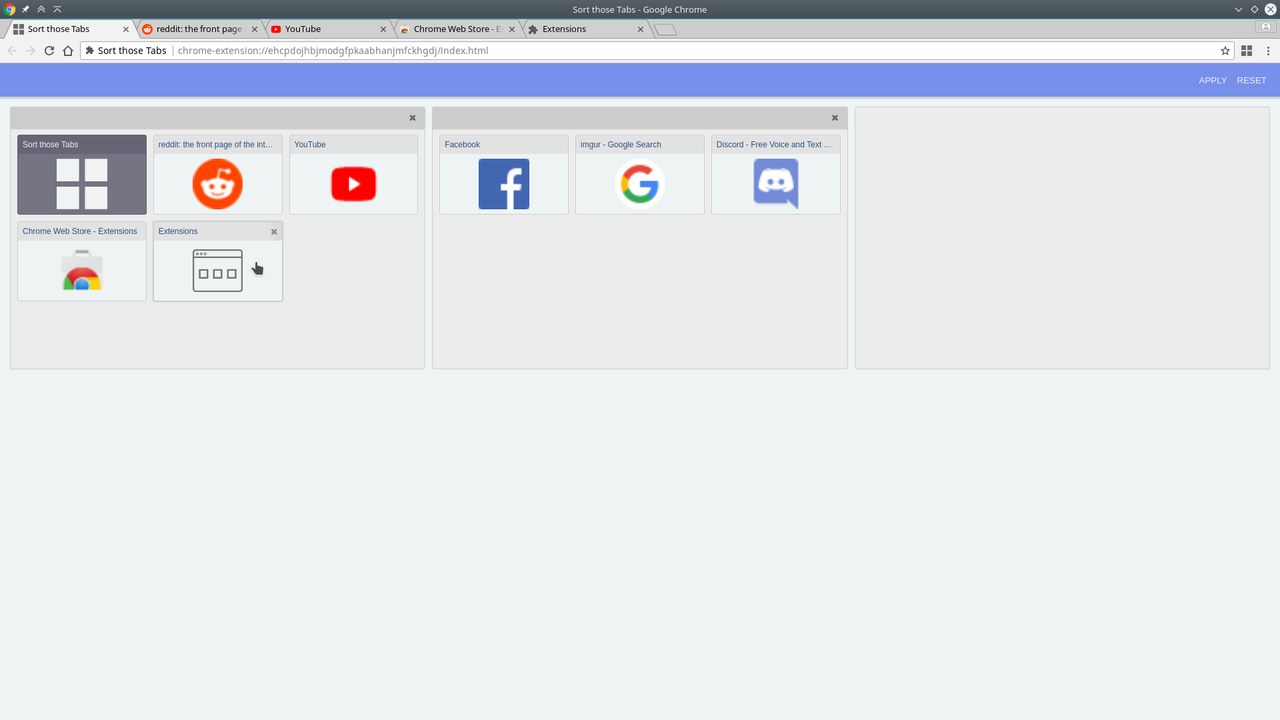
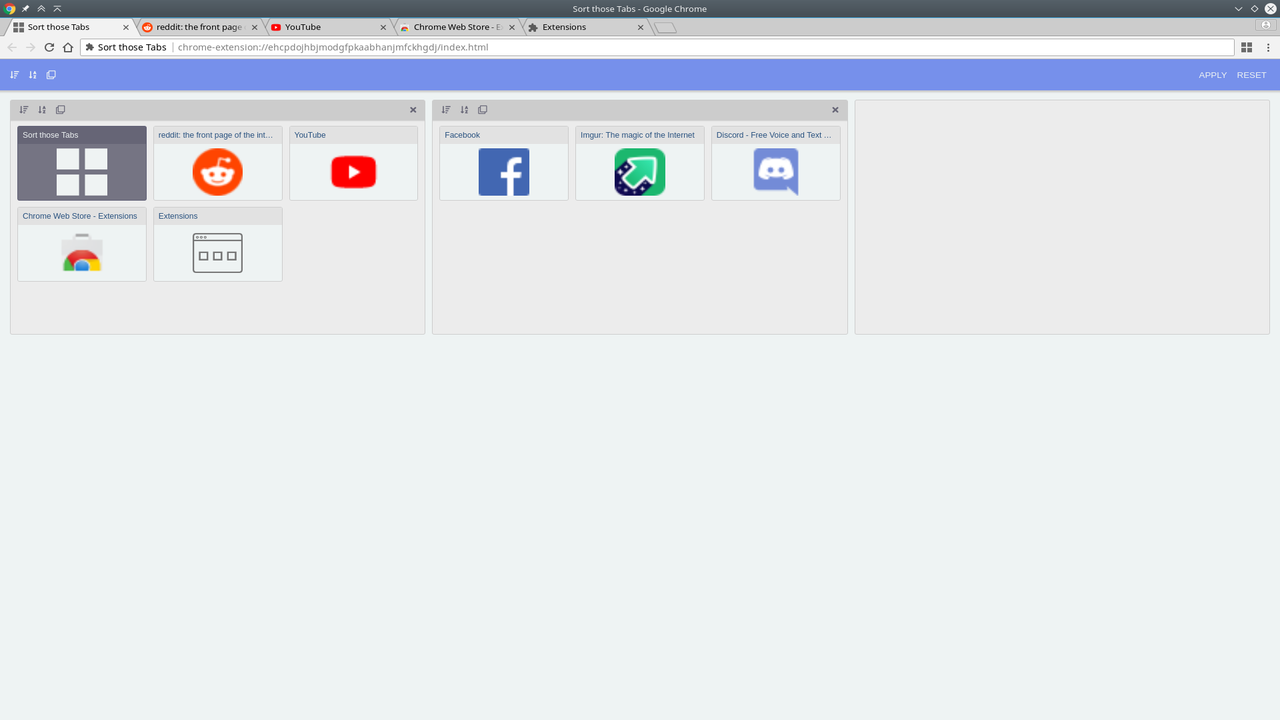
update README and screenshot

Changed region(s): [[0.0, 0.0, 1.0, 0.4278], [0.25, 0.2139, 0.3125, 0.3056]]

diff --git a/README.md b/README.md
@@ -6,6 +6,8 @@ Organizing your Chrome tabs in a large, multi-window browsing session can be a p
 
 - Access all your Chrome windows and tabs from the same page
 - Easily close, transfer, and re-order your Chrome tabs and windows
+- Automatically sort tabs by title or domain name
+- Automatically remove duplicate tabs
 - Apply or reset your changes with the click of a button
 
 ## Installation
@@ -30,6 +32,7 @@ $ ng build            # build
 
 - [Angular](https://angular.io/)
 - [chrome-promise](https://github.com/tfoxy/chrome-promise)
+- [Font Awesome](https://fontawesome.com/)
 
 ## Authors
 
